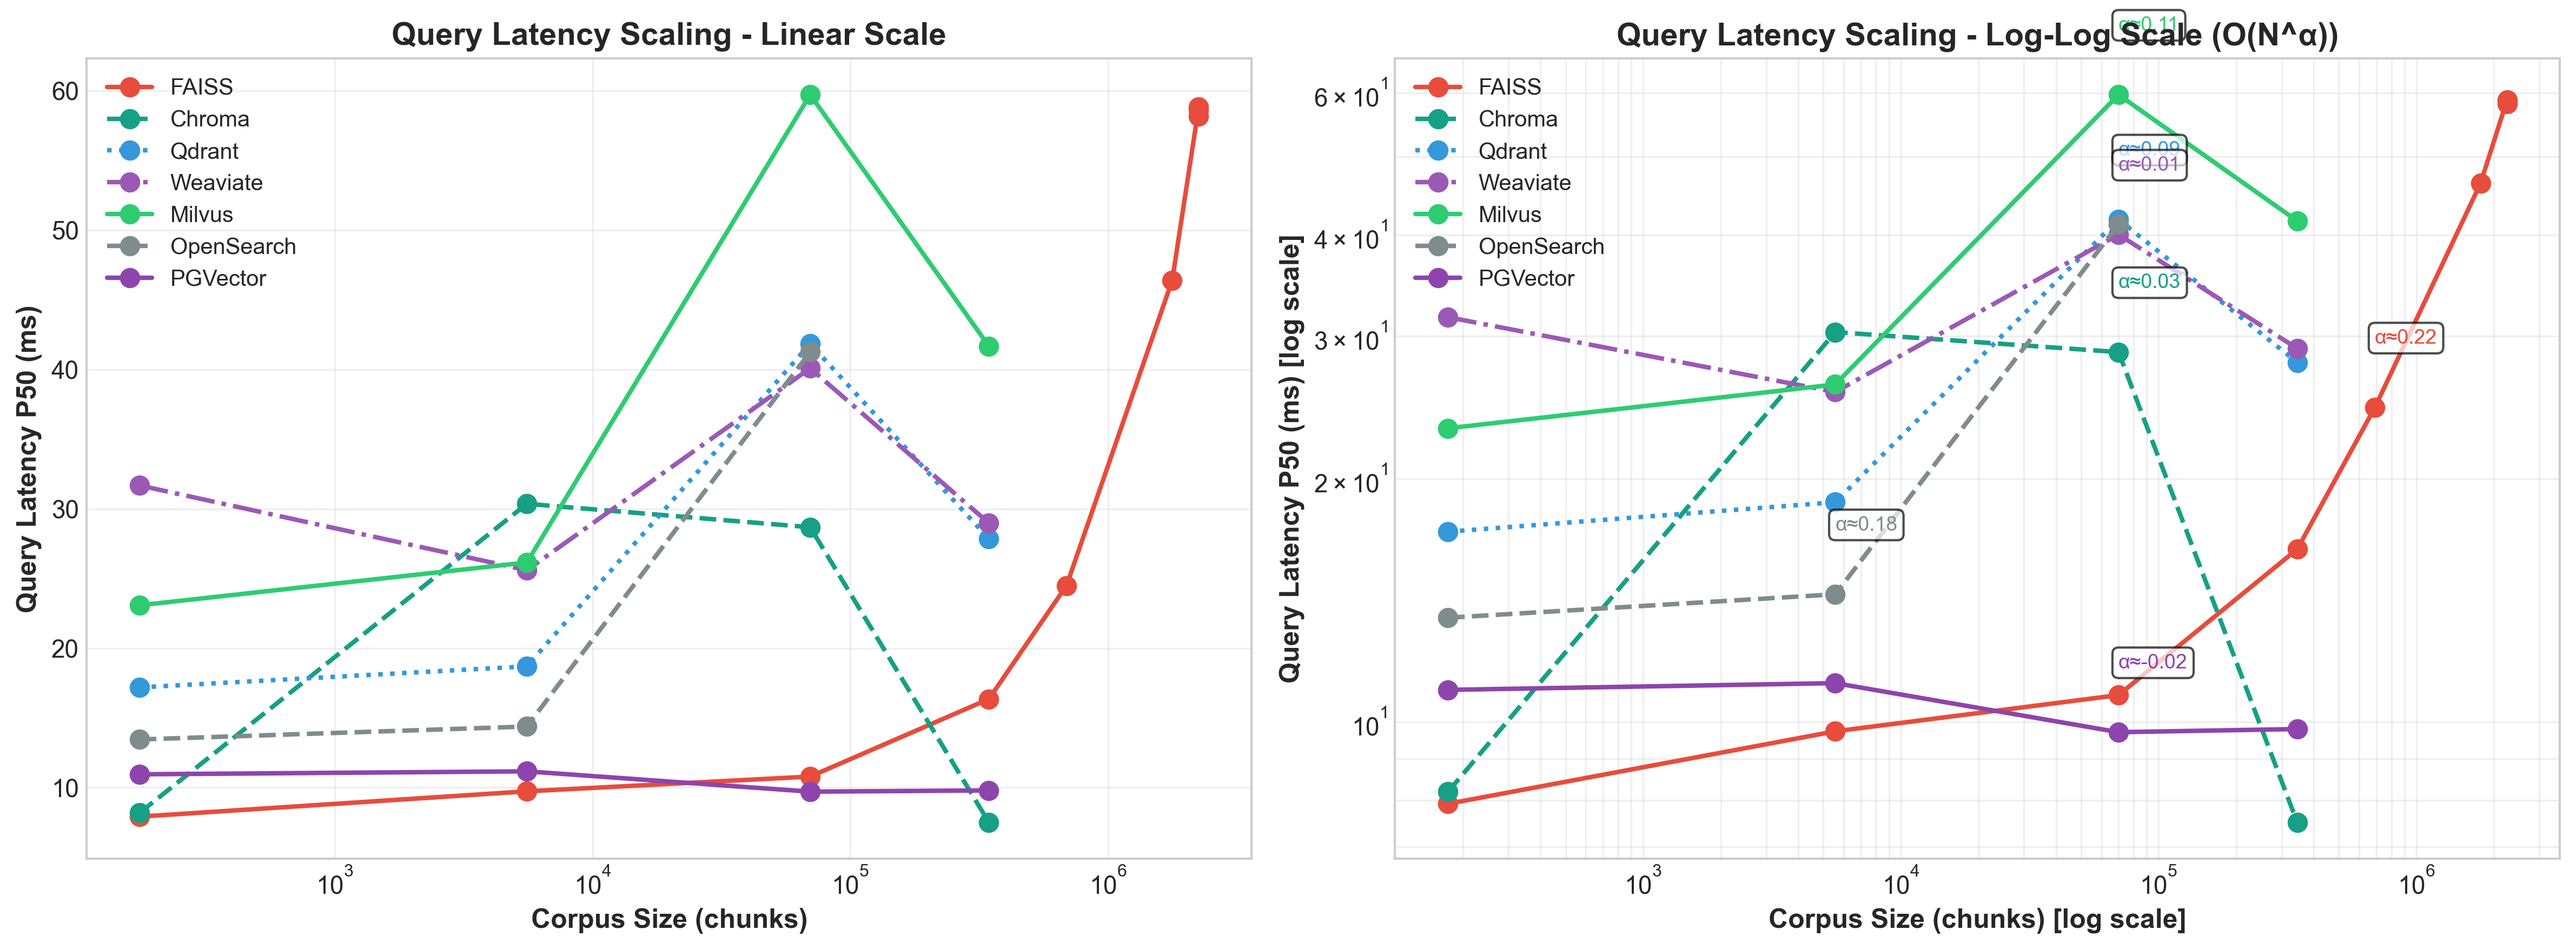
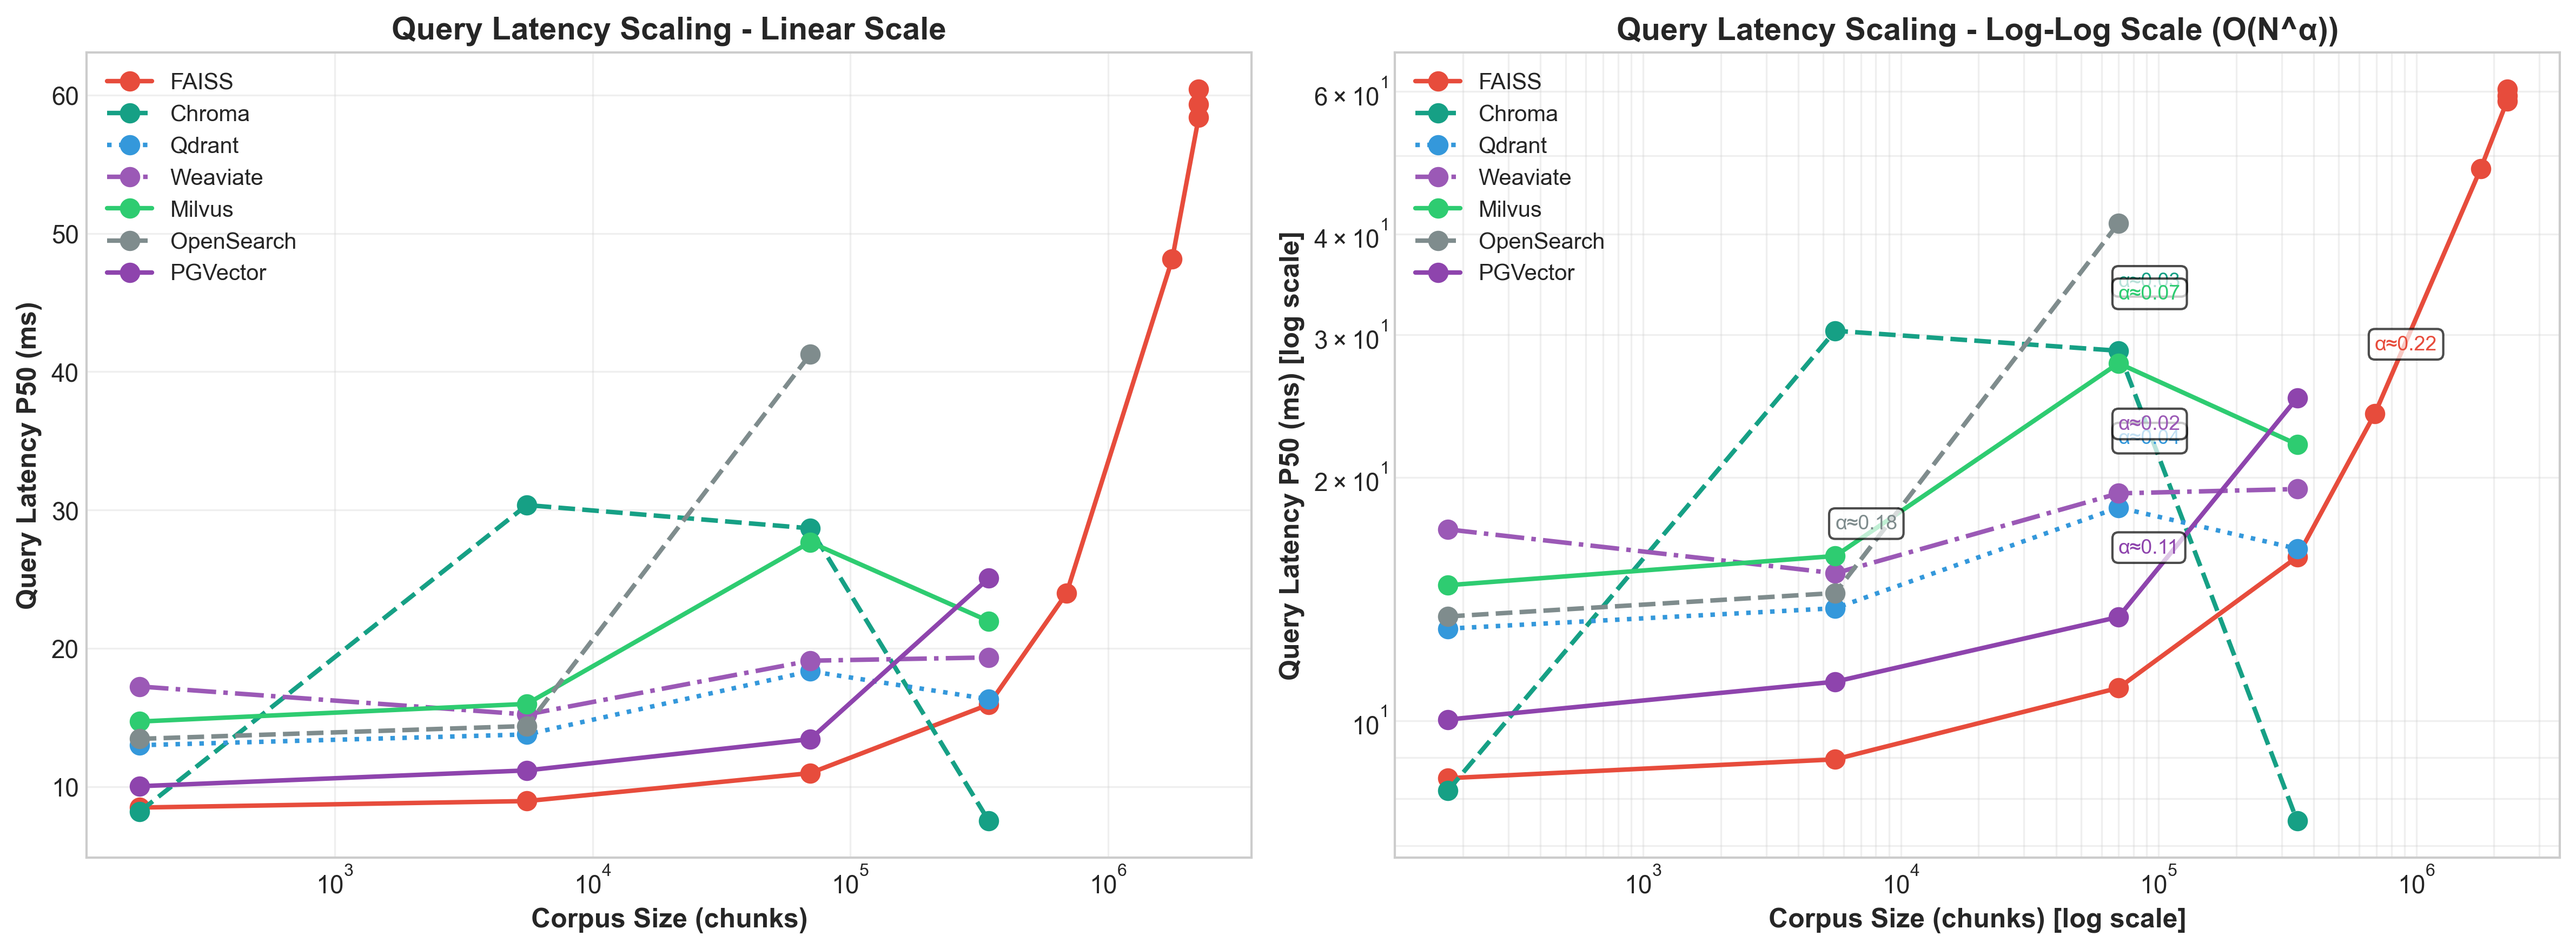
Update to N=10 statistical rigor with regenerated plots and documentation
Completed N=10 statistical upgrade across all 7 databases (224 additional runs).
All plots and documentation now reflect enhanced statistical precision with
narrower error bars (~45% improvement over N=3).

Changes:
- README.md: Updated all references from N=3 to N=10 statistical rigor
- Scripts/plot_multi_database_scaling.py: Prioritize N=10 data over N=3, fix pgvector detection
- Regenerated all comparison plots with N=10 data and tighter error bars:
  * figure_4panel_scaling_comparison.png
  * multi_db_query_latency_comparison.png
  * multi_db_throughput_comparison.png
  * multi_db_ingestion_comparison.png
  * resource_utilization_comparison.png

Statistical improvements:
- Error bars reduced by ~45% (from sqrt(10/3) = 1.826× improvement)
- More precise coefficient of variation measurements
- Enhanced statistical power for detecting performance differences
- Version updated to 4.0 (N=10 Statistical Study Complete)

All 7 databases now have full N=10 validation:
- FAISS: 9 corpus sizes (90 runs)
- Chroma: 4 corpus sizes (40 runs)
- Qdrant: 4 corpus sizes (40 runs)
- Weaviate: 4 corpus sizes (40 runs)
- Milvus: 4 corpus sizes (40 runs)
- OpenSearch: 3 corpus sizes (30 runs)
- PGVector: 4 corpus sizes (40 runs)

🤖 Generated with [Claude Code](https://claude.com/claude-code)

diff --git a/Scripts/plot_multi_database_scaling.py b/Scripts/plot_multi_database_scaling.py
@@ -64,8 +64,8 @@ DB_LINESTYLES = {
 
 def load_database_results(db_name, results_base_dir):
     """Load all scaling results for a database (single or N-run format)."""
-    # First try N=3 format (e.g., chroma_scaling_n3)
-    for n in [3, 5, 10]:  # Check for N=3, N=5, N=10
+    # First try highest N format (prefer N=10 > N=5 > N=3)
+    for n in [10, 5, 3]:  # Check for N=10, N=5, N=3 (highest first)
         results_dir = Path(results_base_dir) / f'{db_name}_scaling_n{n}'
         if results_dir.exists():
             results = []
@@ -681,7 +681,7 @@ def main():
     print()
 
     # Databases to compare
-    databases = ['faiss', 'chroma', 'qdrant', 'weaviate', 'milvus', 'opensearch', 'pgvector_hnsw']
+    databases = ['faiss', 'chroma', 'qdrant', 'weaviate', 'milvus', 'opensearch', 'pgvector']
 
     # Load all data
     print("Loading database results...")
